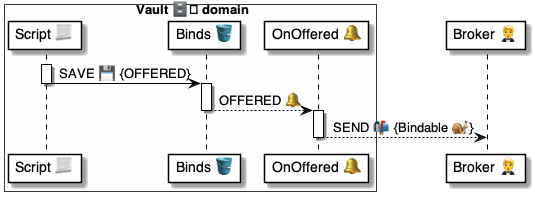
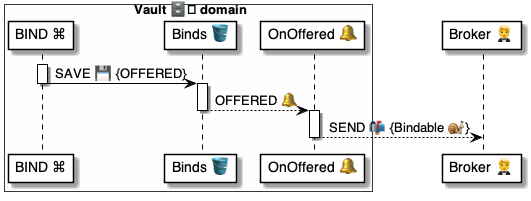
.

diff --git a/4 ⚙ Solution/41 🎭 Domain Roles/Vaults 🗄/🗄🪣 Vault tables/Binds 🔗 table/🪣🔔 1 Offered/🗄 OnBindOffered 📃 handler.md b/4 ⚙ Solution/41 🎭 Domain Roles/Vaults 🗄/🗄🪣 Vault tables/Binds 🔗 table/🪣🔔 1 Offered/🗄 OnBindOffered 📃 handler.md
@@ -1,0 +1,21 @@
+# 🗄 OnBindOffered 📃 handler
+
+> Implementation 
+* Part of the [Vault 🗄 domain](<../41 🎭 Domain Roles/Vaults 🗄/🗄🎭 Vault role.md>)
+
+> Purpose
+* [Script 📃](<../../../../../35 💬 Chats/Scripts 📃/Script 📃.md>) 
+    * that reacts to the [`BIND` command](<../../../../../37 Scripts 📃/📃 Commands ⌘/⌘ for methods 🤵/BIND 🔗/🔗 BIND ⌘ cmd.md>), 
+    * which is implemented by the [`BIND` 📃 script](<../../../../../37 Scripts 📃/📃 Commands ⌘/⌘ for methods 🤵/BIND 🔗/🔗 BIND 📃 script.md>).
+
+## Diagram
+
+![alt text](<🗄 OnBindOffered ⚙ uml.png>)
+
+<br/>
+
+## Script
+
+```yaml
+
+```

diff --git a/4 ⚙ Solution/41 🎭 Domain Roles/Vaults 🗄/🗄🅰 Vault methods/Bound 🤵🐌🗄/🗄 Bound 📃 handler.md b/4 ⚙ Solution/41 🎭 Domain Roles/Vaults 🗄/🗄🅰 Vault methods/Bound 🤵🐌🗄/🗄 Bound 📃 handler.md
@@ -31,10 +31,8 @@
 - READ >> $hook:
     Set: Talker.Hooks
     Key: $.Msg.Hook
-
-# Confirm it's the same Broker
-- ASSERT|$.Msg:
-    From: $hook.Broker
+    Assert: 
+        Broker: $.Msg.From
 
 # Save the Bind
 - SAVE|Vault.Binds:
